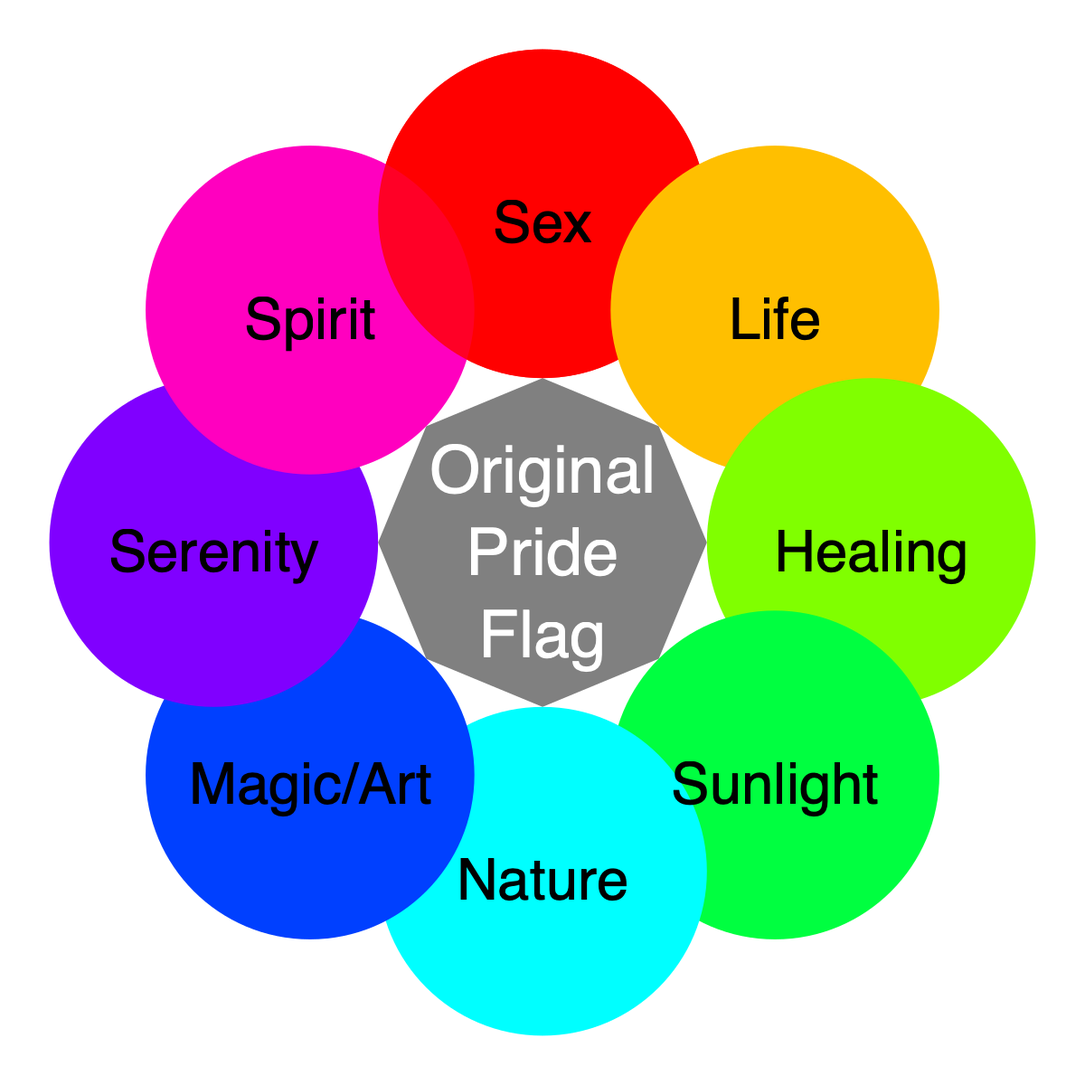
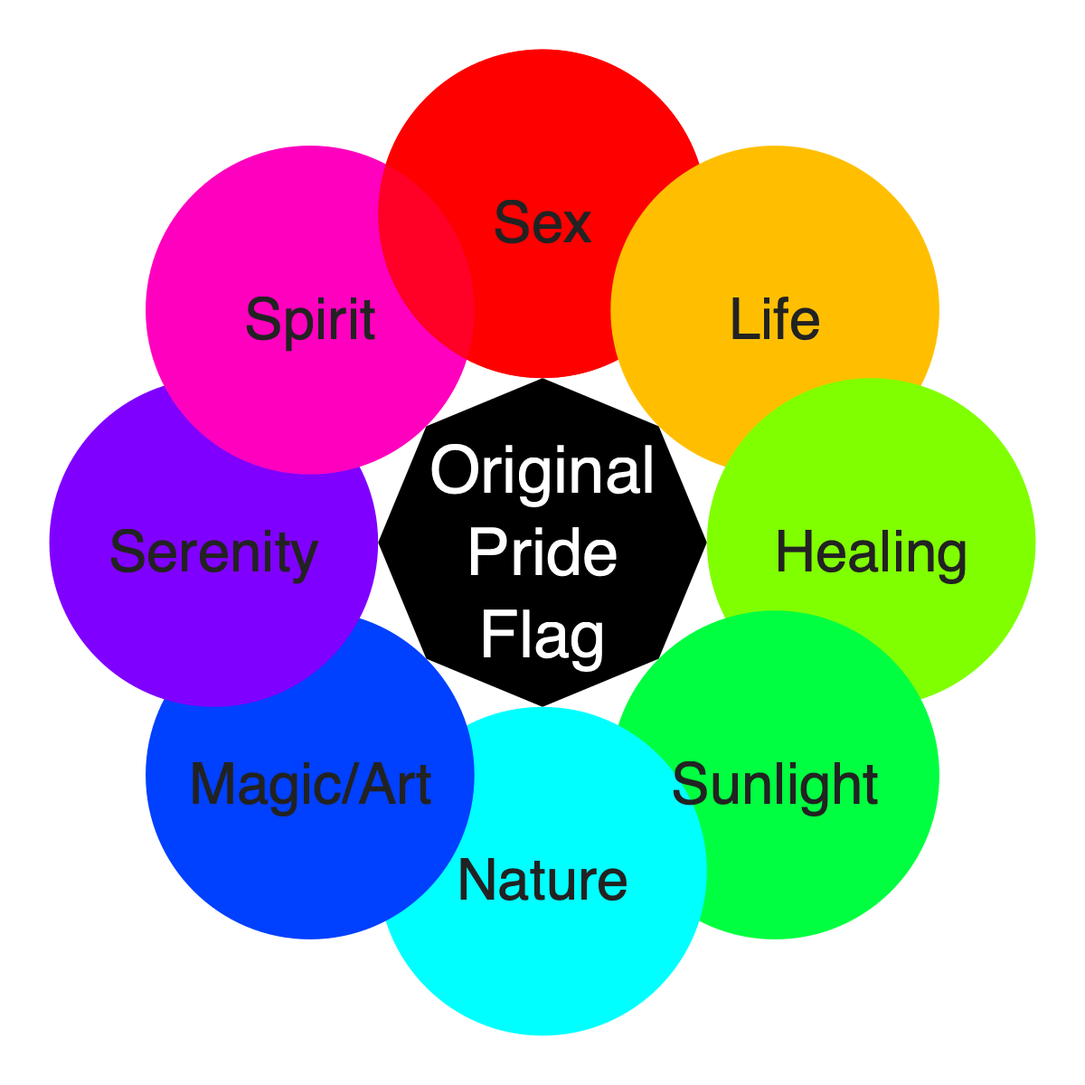
center colour fix

diff --git a/docs/flora.html b/docs/flora.html
@@ -6,16 +6,16 @@
 <meta name="viewport" content="width=device-width, initial-scale=1, shrink-to-fit=no">
 <title>4 Flora | 30-day Chart Challenge</title>
 <meta name="author" content="Lisa DeBruine">
-<meta name="description" content="library(tidyverse) # always useful library(rsvg) # to convert SVG to other formats library(glue) # for editing SVG text I'm going a little off-piste today. I was inspired by all of these stock...">
+<meta name="description" content="library(tidyverse) # always useful library(rsvg) # to convert SVG to other formats ## Warning: package 'rsvg' was built ## under R version 4.1.2 ## Linking to librsvg 2.48.4 library(glue) # for...">
 <meta name="generator" content="bookdown 0.24 with bs4_book()">
 <meta property="og:title" content="4 Flora | 30-day Chart Challenge">
 <meta property="og:type" content="book">
 <meta property="og:url" content="https://debruine.github.io/30-day-chart-challenge/flora.html">
 <meta property="og:image" content="https://debruine.github.io/30-day-chart-challenge/images/logos/logo.png">
-<meta property="og:description" content="library(tidyverse) # always useful library(rsvg) # to convert SVG to other formats library(glue) # for editing SVG text I'm going a little off-piste today. I was inspired by all of these stock...">
+<meta property="og:description" content="library(tidyverse) # always useful library(rsvg) # to convert SVG to other formats ## Warning: package 'rsvg' was built ## under R version 4.1.2 ## Linking to librsvg 2.48.4 library(glue) # for...">
 <meta name="twitter:card" content="summary">
 <meta name="twitter:title" content="4 Flora | 30-day Chart Challenge">
-<meta name="twitter:description" content="library(tidyverse) # always useful library(rsvg) # to convert SVG to other formats library(glue) # for editing SVG text I'm going a little off-piste today. I was inspired by all of these stock...">
+<meta name="twitter:description" content="library(tidyverse) # always useful library(rsvg) # to convert SVG to other formats ## Warning: package 'rsvg' was built ## under R version 4.1.2 ## Linking to librsvg 2.48.4 library(glue) # for...">
 <meta name="twitter:image" content="https://debruine.github.io/30-day-chart-challenge/images/logos/logo.png">
 <!-- JS --><script src="https://cdnjs.cloudflare.com/ajax/libs/clipboard.js/2.0.6/clipboard.min.js" integrity="sha256-inc5kl9MA1hkeYUt+EC3BhlIgyp/2jDIyBLS6k3UxPI=" crossorigin="anonymous"></script><script src="https://cdnjs.cloudflare.com/ajax/libs/fuse.js/6.4.6/fuse.js" integrity="sha512-zv6Ywkjyktsohkbp9bb45V6tEMoWhzFzXis+LrMehmJZZSys19Yxf1dopHx7WzIKxr5tK2dVcYmaCk2uqdjF4A==" crossorigin="anonymous"></script><script src="https://kit.fontawesome.com/6ecbd6c532.js" crossorigin="anonymous"></script><script src="libs/header-attrs-2.11/header-attrs.js"></script><script src="libs/jquery-3.6.0/jquery-3.6.0.min.js"></script><meta name="viewport" content="width=device-width, initial-scale=1, shrink-to-fit=no">
 <link href="libs/bootstrap-4.6.0/bootstrap.min.css" rel="stylesheet">
@@ -102,10 +102,19 @@
 </h1>
 <div class="sourceCode" id="cb40"><pre class="downlit sourceCode r">
 <code class="sourceCode R"><span class="kw"><a href="https://rdrr.io/r/base/library.html">library</a></span><span class="op">(</span><span class="va"><a href="https://tidyverse.tidyverse.org">tidyverse</a></span><span class="op">)</span> <span class="co"># always useful</span>
-<span class="kw"><a href="https://rdrr.io/r/base/library.html">library</a></span><span class="op">(</span><span class="va"><a href="https://github.com/jeroen/rsvg">rsvg</a></span><span class="op">)</span> <span class="co"># to convert SVG to other formats</span>
-<span class="kw"><a href="https://rdrr.io/r/base/library.html">library</a></span><span class="op">(</span><span class="va"><a href="https://github.com/tidyverse/glue">glue</a></span><span class="op">)</span> <span class="co"># for editing SVG text</span></code></pre></div>
+<span class="kw"><a href="https://rdrr.io/r/base/library.html">library</a></span><span class="op">(</span><span class="va"><a href="https://github.com/jeroen/rsvg">rsvg</a></span><span class="op">)</span> <span class="co"># to convert SVG to other formats</span></code></pre></div>
+<pre><code>## Warning: package 'rsvg' was built
+## under R version 4.1.2</code></pre>
+<pre><code>## Linking to librsvg 2.48.4</code></pre>
+<div class="sourceCode" id="cb43"><pre class="downlit sourceCode r">
+<code class="sourceCode R"><span class="kw"><a href="https://rdrr.io/r/base/library.html">library</a></span><span class="op">(</span><span class="va"><a href="https://github.com/tidyverse/glue">glue</a></span><span class="op">)</span> <span class="co"># for editing SVG text</span></code></pre></div>
+<pre><code>## 
+## Attaching package: 'glue'</code></pre>
+<pre><code>## The following object is masked _by_ '.GlobalEnv':
+## 
+##     backtick</code></pre>
 <p>I'm going a little off-piste today. I was inspired by all of these <a href="https://www.vectorstock.com/royalty-free-vectors/chart-flower-infographic-options-vectors">stock infographics</a>, but I wondered if I could make something similar with code. You probably can do this with ggplot and annotations, but I wanted to try something different.</p>
-<div class="sourceCode" id="cb41"><pre class="downlit sourceCode r">
+<div class="sourceCode" id="cb46"><pre class="downlit sourceCode r">
 <code class="sourceCode R"><span class="fu">knitr</span><span class="fu">::</span><span class="fu"><a href="https://rdrr.io/pkg/knitr/man/include_graphics.html">include_graphics</a></span><span class="op">(</span><span class="st">"images/flower_infographics.png"</span><span class="op">)</span></code></pre></div>
 <div class="figure" style="text-align: center">
 <span style="display:block;" id="fig:flora-examples"></span>
@@ -119,7 +128,7 @@ Figure 4.1: Flower infographics from vectorstock.com
 </h2>
 <p>I have some experience making SVGs (scalable vector graphics), but I always have to look things up. <a href="https://www.w3schools.com/graphics/svg_intro.asp">W3Schools</a> is my favourite source for quick tutorials on web stuff. I used it a ton to make this chart.</p>
 <p>While I was developing this code, I needed to have a quick look at the images a lot, and couldn't figure out an efficient way to view SVGs, so I wrote a function that converts the svg text to a PNG tempfile and displays it in my Rmd, but only when I'm running the code interactively.</p>
-<div class="sourceCode" id="cb42"><pre class="downlit sourceCode r">
+<div class="sourceCode" id="cb47"><pre class="downlit sourceCode r">
 <code class="sourceCode R"><span class="va">viewsvg</span> <span class="op">&lt;-</span> <span class="kw">function</span><span class="op">(</span><span class="va">svg</span>, <span class="va">width</span> <span class="op">=</span> <span class="fl">5</span>, <span class="va">height</span> <span class="op">=</span> <span class="fl">5</span>, <span class="va">dpi</span> <span class="op">=</span> <span class="fl">150</span><span class="op">)</span> <span class="op">{</span>
   <span class="kw">if</span> <span class="op">(</span><span class="fu"><a href="https://rdrr.io/r/base/interactive.html">interactive</a></span><span class="op">(</span><span class="op">)</span> <span class="op">&amp;&amp;</span>
       <span class="op">!</span><span class="fu"><a href="https://rdrr.io/r/base/Logic.html">isTRUE</a></span><span class="op">(</span><span class="fu"><a href="https://rdrr.io/r/base/options.html">getOption</a></span><span class="op">(</span><span class="st">"knitr.in.progress"</span><span class="op">)</span><span class="op">)</span><span class="op">)</span> <span class="op">{</span>
@@ -135,7 +144,7 @@ Figure 4.1: Flower infographics from vectorstock.com
 <p>It outputs the SVG as html when knitting. All of the images below are created with a code chunk that looks like this:</p>
 <div class="verbatim">
 <pre class="sourceCode r"><code class="sourceCode R">```{r, results='asis', echo = FALSE}</code></pre>
-<div class="sourceCode" id="cb43"><pre class="downlit sourceCode r">
+<div class="sourceCode" id="cb48"><pre class="downlit sourceCode r">
 <code class="sourceCode R"><span class="fu">viewsvg</span><span class="op">(</span><span class="va">svg</span><span class="op">)</span></code></pre></div>
 <pre class="sourceCode r"><code class="sourceCode R">```</code></pre>
 </div>
@@ -145,7 +154,7 @@ Figure 4.1: Flower infographics from vectorstock.com
 <span class="header-section-number">4.2</span> Flower Petals<a class="anchor" aria-label="anchor" href="#flower-petals"><i class="fas fa-link"></i></a>
 </h2>
 <p>First, I need a function to figure out the coordinates of regular polygons.</p>
-<div class="sourceCode" id="cb44"><pre class="downlit sourceCode r">
+<div class="sourceCode" id="cb49"><pre class="downlit sourceCode r">
 <code class="sourceCode R"><span class="va">poly_coords</span> <span class="op">&lt;-</span> <span class="kw">function</span><span class="op">(</span><span class="va">n</span> <span class="op">=</span> <span class="fl">6</span>, <span class="va">r</span> <span class="op">=</span> <span class="fl">1</span>, <span class="va">cx</span> <span class="op">=</span> <span class="fl">0</span>, <span class="va">cy</span> <span class="op">=</span> <span class="fl">0</span>, <span class="va">rot</span> <span class="op">=</span> <span class="fl">0</span>, <span class="va">digits</span> <span class="op">=</span> <span class="fl">2</span><span class="op">)</span> <span class="op">{</span>
   <span class="va">x</span> <span class="op">=</span> <span class="fu"><a href="https://rdrr.io/pkg/purrr/man/map.html">map_dbl</a></span><span class="op">(</span><span class="fl">0</span><span class="op">:</span><span class="op">(</span><span class="va">n</span><span class="op">-</span><span class="fl">1</span><span class="op">)</span>, <span class="op">~</span><span class="op">{</span> <span class="va">cx</span> <span class="op">+</span> <span class="va">r</span> <span class="op">*</span> <span class="fu"><a href="https://rdrr.io/r/base/Trig.html">cos</a></span><span class="op">(</span><span class="fl">2</span> <span class="op">*</span> <span class="va">pi</span> <span class="op">*</span> <span class="va">.x</span> <span class="op">/</span> <span class="va">n</span> <span class="op">+</span> <span class="va">rot</span><span class="op">)</span> <span class="op">}</span><span class="op">)</span>
   <span class="va">y</span> <span class="op">=</span> <span class="fu"><a href="https://rdrr.io/pkg/purrr/man/map.html">map_dbl</a></span><span class="op">(</span><span class="fl">0</span><span class="op">:</span><span class="op">(</span><span class="va">n</span><span class="op">-</span><span class="fl">1</span><span class="op">)</span>, <span class="op">~</span><span class="op">{</span> <span class="va">cy</span> <span class="op">+</span> <span class="va">r</span> <span class="op">*</span> <span class="fu"><a href="https://rdrr.io/r/base/Trig.html">sin</a></span><span class="op">(</span><span class="fl">2</span> <span class="op">*</span> <span class="va">pi</span> <span class="op">*</span> <span class="va">.x</span> <span class="op">/</span> <span class="va">n</span> <span class="op">+</span> <span class="va">rot</span><span class="op">)</span> <span class="op">}</span><span class="op">)</span>
@@ -161,9 +170,10 @@ Figure 4.1: Flower infographics from vectorstock.com
 ## [1]  1.0  0.5 -0.5 -1.0 -0.5  0.5
 ## 
 ## $y
-## [1]  0.00  0.87  0.87  0.00 -0.87 -0.87</code></pre>
+## [1]  0.00  0.87  0.87  0.00 -0.87
+## [6] -0.87</code></pre>
 <p>Now, make <code>n</code> circles with radius <code>r</code> that are <code>petal_dist</code> away from the center of the flower.</p>
-<div class="sourceCode" id="cb46"><pre class="downlit sourceCode r">
+<div class="sourceCode" id="cb51"><pre class="downlit sourceCode r">
 <code class="sourceCode R"><span class="va">n</span> <span class="op">&lt;-</span> <span class="fl">6</span>
 <span class="va">r</span> <span class="op">&lt;-</span> <span class="fl">200</span>
 <span class="va">petal_dist</span> <span class="op">&lt;-</span> <span class="fl">300</span>
@@ -186,7 +196,7 @@ Figure 4.1: Flower infographics from vectorstock.com
 <span class="header-section-number">4.3</span> Rotate<a class="anchor" aria-label="anchor" href="#rotate"><i class="fas fa-link"></i></a>
 </h2>
 <p>Rotate them so the red is at 12:00.</p>
-<div class="sourceCode" id="cb47"><pre class="downlit sourceCode r">
+<div class="sourceCode" id="cb52"><pre class="downlit sourceCode r">
 <code class="sourceCode R"><span class="va">rot</span> <span class="op">&lt;-</span> <span class="op">-</span><span class="va">pi</span><span class="op">/</span><span class="fl">2</span>
 
 <span class="va">coords</span> <span class="op">&lt;-</span> <span class="fu">poly_coords</span><span class="op">(</span><span class="va">n</span>, <span class="va">petal_dist</span>, <span class="va">cx</span>, <span class="va">cy</span>, <span class="va">rot</span><span class="op">)</span>
@@ -205,7 +215,7 @@ Figure 4.1: Flower infographics from vectorstock.com
 <span class="header-section-number">4.4</span> Fix the Overlap<a class="anchor" aria-label="anchor" href="#fix-the-overlap"><i class="fas fa-link"></i></a>
 </h2>
 <p>When they overlap, the last petal is on top of the first, so we need to replot the left half of that. It took me forever to figure out how to plot the left half of a circle with <code>&lt;path&gt;</code> :(</p>
-<div class="sourceCode" id="cb48"><pre class="downlit sourceCode r">
+<div class="sourceCode" id="cb53"><pre class="downlit sourceCode r">
 <code class="sourceCode R"><span class="va">coords</span> <span class="op">&lt;-</span> <span class="fu">poly_coords</span><span class="op">(</span><span class="va">n</span>, <span class="va">petal_dist</span>, <span class="va">cx</span>, <span class="va">cy</span>, <span class="va">rot</span><span class="op">)</span>
 <span class="va">petals</span> <span class="op">&lt;-</span> <span class="fu"><a href="https://rdrr.io/pkg/glue/man/glue.html">glue</a></span><span class="op">(</span><span class="st">'    &lt;circle cx="{coords$x}" cy="{coords$y}" r="{r}" fill="{rainbow(n)}" /&gt;'</span><span class="op">)</span> <span class="op"><a href="https://rdrr.io/pkg/magrittr/man/pipe.html">%&gt;%</a></span>
   <span class="fu"><a href="https://rdrr.io/r/base/paste.html">paste</a></span><span class="op">(</span>collapse <span class="op">=</span> <span class="st">"\n"</span><span class="op">)</span>
@@ -228,7 +238,7 @@ Figure 4.1: Flower infographics from vectorstock.com
 A 200 200 0 0 1 700 200
 L 300 200
 Z" fill="#FF0000"></path></g></svg><p>Now I want to add a center hexagon that just touches each petal.</p>
-<div class="sourceCode" id="cb49"><pre class="downlit sourceCode r">
+<div class="sourceCode" id="cb54"><pre class="downlit sourceCode r">
 <code class="sourceCode R"><span class="va">center</span> <span class="op">&lt;-</span> <span class="fu">poly_coords</span><span class="op">(</span><span class="va">n</span>, <span class="va">petal_dist</span><span class="op">-</span><span class="va">r</span>, <span class="va">cx</span>, <span class="va">cy</span>, <span class="va">rot</span><span class="op">)</span> <span class="op"><a href="https://rdrr.io/pkg/magrittr/man/pipe.html">%&gt;%</a></span>
   <span class="fu"><a href="https://rdrr.io/pkg/glue/man/glue.html">glue</a></span><span class="op">(</span><span class="st">"{cc$x},{cc$y}"</span>, cc <span class="op">=</span> <span class="va">.</span><span class="op">)</span> <span class="op"><a href="https://rdrr.io/pkg/magrittr/man/pipe.html">%&gt;%</a></span>
   <span class="fu"><a href="https://rdrr.io/r/base/paste.html">paste</a></span><span class="op">(</span>collapse <span class="op">=</span> <span class="st">" "</span><span class="op">)</span> <span class="op"><a href="https://rdrr.io/pkg/magrittr/man/pipe.html">%&gt;%</a></span>
@@ -249,7 +259,7 @@ Z" fill="#FF0000"></path></g></svg>
 <h2>
 <span class="header-section-number">4.5</span> 7 Petals<a class="anchor" aria-label="anchor" href="#petals"><i class="fas fa-link"></i></a>
 </h2>
-<div class="sourceCode" id="cb50"><pre class="downlit sourceCode r">
+<div class="sourceCode" id="cb55"><pre class="downlit sourceCode r">
 <code class="sourceCode R"><span class="va">n</span>          <span class="op">&lt;-</span> <span class="fl">7</span>
 <span class="va">rot</span>        <span class="op">&lt;-</span> <span class="fl">8.5</span><span class="op">*</span><span class="va">pi</span><span class="op">/</span><span class="fl">7</span>
 <span class="va">petal_dist</span> <span class="op">&lt;-</span> <span class="fl">400</span>
@@ -321,7 +331,7 @@ Z" fill="#FF0000"></path></g><text x="347.27" y="450.6">A</text>"
 <span class="header-section-number">4.6</span> Make a Function<a class="anchor" aria-label="anchor" href="#make-a-function"><i class="fas fa-link"></i></a>
 </h2>
 <p>Now I just need to wrap this all in a function so I can change the things I need. I also added transparency to the petals, which necessitated making the two halves of the first petal separately, otherwise the overlap fix increases the opacity of half the petal if there's any transparency.</p>
-<div class="sourceCode" id="cb51"><pre class="downlit sourceCode r">
+<div class="sourceCode" id="cb56"><pre class="downlit sourceCode r">
 <code class="sourceCode R"><span class="va">poly_coords</span> <span class="op">&lt;-</span> <span class="kw">function</span><span class="op">(</span><span class="va">n</span> <span class="op">=</span> <span class="fl">6</span>, <span class="va">r</span> <span class="op">=</span> <span class="fl">1</span>, <span class="va">cx</span> <span class="op">=</span> <span class="fl">0</span>, <span class="va">cy</span> <span class="op">=</span> <span class="fl">0</span>, <span class="va">rot</span> <span class="op">=</span> <span class="fl">0</span>, <span class="va">digits</span> <span class="op">=</span> <span class="fl">2</span><span class="op">)</span> <span class="op">{</span>
   <span class="va">x</span> <span class="op">=</span> <span class="fu"><a href="https://rdrr.io/pkg/purrr/man/map.html">map_dbl</a></span><span class="op">(</span><span class="fl">0</span><span class="op">:</span><span class="op">(</span><span class="va">n</span><span class="op">-</span><span class="fl">1</span><span class="op">)</span>, <span class="op">~</span><span class="op">{</span> <span class="va">cx</span> <span class="op">+</span> <span class="va">r</span> <span class="op">*</span> <span class="fu"><a href="https://rdrr.io/r/base/Trig.html">cos</a></span><span class="op">(</span><span class="fl">2</span> <span class="op">*</span> <span class="va">pi</span> <span class="op">*</span> <span class="va">.x</span> <span class="op">/</span> <span class="va">n</span> <span class="op">+</span> <span class="va">rot</span><span class="op">)</span> <span class="op">}</span><span class="op">)</span>
   <span class="va">y</span> <span class="op">=</span> <span class="fu"><a href="https://rdrr.io/pkg/purrr/man/map.html">map_dbl</a></span><span class="op">(</span><span class="fl">0</span><span class="op">:</span><span class="op">(</span><span class="va">n</span><span class="op">-</span><span class="fl">1</span><span class="op">)</span>, <span class="op">~</span><span class="op">{</span> <span class="va">cy</span> <span class="op">+</span> <span class="va">r</span> <span class="op">*</span> <span class="fu"><a href="https://rdrr.io/r/base/Trig.html">sin</a></span><span class="op">(</span><span class="fl">2</span> <span class="op">*</span> <span class="va">pi</span> <span class="op">*</span> <span class="va">.x</span> <span class="op">/</span> <span class="va">n</span> <span class="op">+</span> <span class="va">rot</span><span class="op">)</span> <span class="op">}</span><span class="op">)</span>
@@ -352,7 +362,7 @@ Z" fill="#FF0000"></path></g><text x="347.27" y="450.6">A</text>"
   <span class="va">center</span> <span class="op">&lt;-</span> <span class="fu">poly_coords</span><span class="op">(</span><span class="va">n</span>, <span class="va">petal_dist</span><span class="op">-</span><span class="va">r</span>, <span class="va">cx</span>, <span class="va">cy</span>, <span class="va">rot</span><span class="op">)</span> <span class="op"><a href="https://rdrr.io/pkg/magrittr/man/pipe.html">%&gt;%</a></span>
     <span class="fu"><a href="https://rdrr.io/pkg/glue/man/glue.html">glue</a></span><span class="op">(</span><span class="st">"{cc$x},{cc$y}"</span>, cc <span class="op">=</span> <span class="va">.</span><span class="op">)</span> <span class="op"><a href="https://rdrr.io/pkg/magrittr/man/pipe.html">%&gt;%</a></span>
     <span class="fu"><a href="https://rdrr.io/r/base/paste.html">paste</a></span><span class="op">(</span>collapse <span class="op">=</span> <span class="st">" "</span><span class="op">)</span> <span class="op"><a href="https://rdrr.io/pkg/magrittr/man/pipe.html">%&gt;%</a></span>
-    <span class="fu"><a href="https://rdrr.io/pkg/glue/man/glue.html">glue</a></span><span class="op">(</span><span class="st">'&lt;polygon points="{pts}" fill="grey" /&gt;'</span>, pts <span class="op">=</span> <span class="va">.</span><span class="op">)</span>
+    <span class="fu"><a href="https://rdrr.io/pkg/glue/man/glue.html">glue</a></span><span class="op">(</span><span class="st">'&lt;polygon points="{pts}" fill="{center_color}" /&gt;'</span>, pts <span class="op">=</span> <span class="va">.</span><span class="op">)</span>
   
   <span class="co"># make center texts</span>
   <span class="va">center_texts</span> <span class="op">&lt;-</span> <span class="fu"><a href="https://rdrr.io/pkg/glue/man/glue.html">glue</a></span><span class="op">(</span><span class="st">'    &lt;text x="{cx}" y="{cy+center_text_offsets}" fill="{center_text_color}" font-size="{center_text_size}px"&gt;{center_text}&lt;/text&gt;'</span><span class="op">)</span> <span class="op"><a href="https://rdrr.io/pkg/magrittr/man/pipe.html">%&gt;%</a></span>
@@ -405,7 +415,7 @@ Z" fill="#FF0000"></path></g><text x="347.27" y="450.6">A</text>"
   <span class="va">svg</span>
 <span class="op">}</span></code></pre></div>
 <p>Test the defaults.</p>
-<div class="sourceCode" id="cb52"><pre class="downlit sourceCode r">
+<div class="sourceCode" id="cb57"><pre class="downlit sourceCode r">
 <code class="sourceCode R"><span class="va">svg</span> <span class="op">&lt;-</span> <span class="fu">flower</span><span class="op">(</span><span class="op">)</span></code></pre></div>
 <svg viewbox="0 0 1650 1650"><style type="text/css">
   svg { 
@@ -415,7 +425,7 @@ Z" fill="#FF0000"></path></g><text x="347.27" y="450.6">A</text>"
     fill: white;
   }
 </style>
-<polygon points="825,575 1041.51,700 1041.51,950 825,1075 608.49,950 608.49,700" fill="grey"></polygon><text x="825" y="808.333333333333" fill="white" font-size="83.3333333333333px">All of the</text><text x="825" y="900" fill="white" font-size="83.3333333333333px">Things</text><g transform="rotate(90, 825, 325)"><path d="M 575 325
+<polygon points="825,575 1041.51,700 1041.51,950 825,1075 608.49,950 608.49,700" fill="#808080"></polygon><text x="825" y="808.333333333333" fill="white" font-size="83.3333333333333px">All of the</text><text x="825" y="900" fill="white" font-size="83.3333333333333px">Things</text><g transform="rotate(90, 825, 325)"><path d="M 575 325
 A 250 250 0 0 1 1075 325
 L 575 325
 Z" fill="#FF0000" fill-opacity="1"></path></g><circle cx="825" cy="325" r="250" fill="#FF0000"></circle><circle cx="1258.01" cy="575" r="250" fill="#FFFF00"></circle><circle cx="1258.01" cy="1075" r="250" fill="#00FF00"></circle><circle cx="825" cy="1325" r="250" fill="#00FFFF"></circle><circle cx="391.99" cy="1075" r="250" fill="#0000FF"></circle><circle cx="391.99" cy="575" r="250" fill="#FF00FF"></circle><g transform="rotate(-90, 825, 325)"><path d="M 575 325
@@ -434,7 +444,7 @@ Z" fill="#FF0000" fill-opacity="1"></path></g><text x="825" y="387.5">A</text>"
 <span class="header-section-number">4.7</span> Original Pride Flag<a class="anchor" aria-label="anchor" href="#original-pride-flag"><i class="fas fa-link"></i></a>
 </h2>
 <p>Test the customisability by making a chart with the meaning of the 8 colours of the original pride flag.</p>
-<div class="sourceCode" id="cb53"><pre class="downlit sourceCode r">
+<div class="sourceCode" id="cb58"><pre class="downlit sourceCode r">
 <code class="sourceCode R"><span class="va">svg</span> <span class="op">&lt;-</span> <span class="fu">flower</span><span class="op">(</span>n <span class="op">=</span> <span class="fl">8</span>, petal_dist <span class="op">=</span> <span class="fl">400</span>, r <span class="op">=</span> <span class="fl">200</span>,
               petal_colors <span class="op">=</span> <span class="fu"><a href="https://rdrr.io/r/base/c.html">c</a></span><span class="op">(</span><span class="st">"#FF66B1"</span>, <span class="st">"#FF0000"</span>, <span class="st">"#FF8F1A"</span>, <span class="st">"#FEFF3A"</span>,
                                <span class="st">"#008F1D"</span>, <span class="st">"#00C0C0"</span>, <span class="st">"#420095"</span>, <span class="st">"#8F008B"</span><span class="op">)</span>,
@@ -444,7 +454,7 @@ Z" fill="#FF0000" fill-opacity="1"></path></g><text x="825" y="387.5">A</text>"
               center_text <span class="op">=</span> <span class="fu"><a href="https://rdrr.io/r/base/c.html">c</a></span><span class="op">(</span><span class="st">"Original"</span>, <span class="st">"Pride"</span>, <span class="st">"Flag"</span><span class="op">)</span>,
               center_text_size <span class="op">=</span> <span class="fl">80</span>,
               center_text_offsets <span class="op">=</span> <span class="fu"><a href="https://rdrr.io/r/base/c.html">c</a></span><span class="op">(</span><span class="op">-</span><span class="fl">60</span>, <span class="fl">40</span>, <span class="fl">140</span><span class="op">)</span>,
-              petal_text_color <span class="op">=</span> <span class="st">"black"</span>,
+              petal_text_color <span class="op">=</span> <span class="st">"#222222"</span>,
               petal_text_size <span class="op">=</span> <span class="fl">70</span>,
               center_color <span class="op">=</span> <span class="st">"black"</span>,
               center_text_color <span class="op">=</span> <span class="st">"white"</span>
@@ -454,10 +464,10 @@ Z" fill="#FF0000" fill-opacity="1"></path></g><text x="825" y="387.5">A</text>"
     font-family: sans-serif;
     font-size: 70px; 
     text-anchor: middle; 
-    fill: black;
+    fill: #222222;
   }
 </style>
-<polygon points="660,460 801.42,518.58 860,660 801.42,801.42 660,860 518.58,801.42 460,660 518.58,518.58" fill="grey"></polygon><text x="660" y="600" fill="white" font-size="80px">Original</text><text x="660" y="700" fill="white" font-size="80px">Pride</text><text x="660" y="800" fill="white" font-size="80px">Flag</text><g transform="rotate(90, 660, 260)"><path d="M 460 260
+<polygon points="660,460 801.42,518.58 860,660 801.42,801.42 660,860 518.58,801.42 460,660 518.58,518.58" fill="black"></polygon><text x="660" y="600" fill="white" font-size="80px">Original</text><text x="660" y="700" fill="white" font-size="80px">Pride</text><text x="660" y="800" fill="white" font-size="80px">Flag</text><g transform="rotate(90, 660, 260)"><path d="M 460 260
 A 200 200 0 0 1 860 260
 L 460 260
 Z" fill="#FF0000" fill-opacity="0.8"></path></g><circle cx="660" cy="260" r="200" fill="#FF0000"></circle><circle cx="942.84" cy="377.16" r="200" fill="#FFBF00"></circle><circle cx="1060" cy="660" r="200" fill="#80FF00"></circle><circle cx="942.84" cy="942.84" r="200" fill="#00FF40"></circle><circle cx="660" cy="1060" r="200" fill="#00FFFF"></circle><circle cx="377.16" cy="942.84" r="200" fill="#0040FF"></circle><circle cx="260" cy="660" r="200" fill="#8000FF"></circle><circle cx="377.16" cy="377.16" r="200" fill="#FF00BF"></circle><g transform="rotate(-90, 660, 260)"><path d="M 460 260
@@ -478,17 +488,17 @@ Z" fill="#FF0000" fill-opacity="0.8"></path></g><text x="660" y="295">Sex</text>
 <span class="header-section-number">4.8</span> Save as SVG or PNG<a class="anchor" aria-label="anchor" href="#save-as-svg-or-png"><i class="fas fa-link"></i></a>
 </h2>
 <p>You can display your SVG directly in a website by setting <code>results='asis'</code> in the code chunk header. It will display it full size unless you use another method to constrain the image size. I set a css style of <code>svg { width: 100%; }</code>.</p>
-<div class="sourceCode" id="cb54"><pre class="downlit sourceCode r">
+<div class="sourceCode" id="cb59"><pre class="downlit sourceCode r">
 <code class="sourceCode R"><span class="fu"><a href="https://rdrr.io/r/base/cat.html">cat</a></span><span class="op">(</span><span class="va">svg</span><span class="op">)</span></code></pre></div>
 <svg viewbox="0 0 1320 1320"><style type="text/css">
   svg { 
     font-family: sans-serif;
     font-size: 70px; 
     text-anchor: middle; 
-    fill: black;
+    fill: #222222;
   }
 </style>
-<polygon points="660,460 801.42,518.58 860,660 801.42,801.42 660,860 518.58,801.42 460,660 518.58,518.58" fill="grey"></polygon><text x="660" y="600" fill="white" font-size="80px">Original</text><text x="660" y="700" fill="white" font-size="80px">Pride</text><text x="660" y="800" fill="white" font-size="80px">Flag</text><g transform="rotate(90, 660, 260)"><path d="M 460 260
+<polygon points="660,460 801.42,518.58 860,660 801.42,801.42 660,860 518.58,801.42 460,660 518.58,518.58" fill="black"></polygon><text x="660" y="600" fill="white" font-size="80px">Original</text><text x="660" y="700" fill="white" font-size="80px">Pride</text><text x="660" y="800" fill="white" font-size="80px">Flag</text><g transform="rotate(90, 660, 260)"><path d="M 460 260
 A 200 200 0 0 1 860 260
 L 460 260
 Z" fill="#FF0000" fill-opacity="0.8"></path></g><circle cx="660" cy="260" r="200" fill="#FF0000"></circle><circle cx="942.84" cy="377.16" r="200" fill="#FFBF00"></circle><circle cx="1060" cy="660" r="200" fill="#80FF00"></circle><circle cx="942.84" cy="942.84" r="200" fill="#00FF40"></circle><circle cx="660" cy="1060" r="200" fill="#00FFFF"></circle><circle cx="377.16" cy="942.84" r="200" fill="#0040FF"></circle><circle cx="260" cy="660" r="200" fill="#8000FF"></circle><circle cx="377.16" cy="377.16" r="200" fill="#FF00BF"></circle><g transform="rotate(-90, 660, 260)"><path d="M 460 260
@@ -503,7 +513,7 @@ Z" fill="#FF0000" fill-opacity="0.8"></path></g><text x="660" y="295">Sex</text>
 <text x="260" y="695">Serenity</text>"
 <text x="377.16" y="412.16">Spirit</text>"
 </svg><p>You can write it to an svg file, or use svgr to convert to an image.</p>
-<div class="sourceCode" id="cb55"><pre class="downlit sourceCode r">
+<div class="sourceCode" id="cb60"><pre class="downlit sourceCode r">
 <code class="sourceCode R"><span class="fu"><a href="https://rdrr.io/r/base/write.html">write</a></span><span class="op">(</span><span class="va">svg</span>, <span class="st">"images/day4.svg"</span><span class="op">)</span>
 <span class="fu">rsvg</span><span class="fu">::</span><span class="fu"><a href="https://rdrr.io/pkg/rsvg/man/rsvg.html">rsvg_png</a></span><span class="op">(</span>svg <span class="op">=</span> <span class="fu"><a href="https://rdrr.io/r/base/rawConversion.html">charToRaw</a></span><span class="op">(</span><span class="va">svg</span><span class="op">)</span>, 
                file <span class="op">=</span> <span class="st">"images/day4.png"</span>, 

diff --git a/docs/historical.html b/docs/historical.html
@@ -323,10 +323,11 @@ pop2 <- pop %>%
 <p>The data collection isn't even at all. The years go every 1000 from -10000 to 0, then every 100 from 0 to 1700, then every 10 from 1700 to 1800, then every year from 1800 to 2021.</p>
 <div class="sourceCode" id="cb29"><pre class="downlit sourceCode r">
 <code class="sourceCode R"><span class="fu"><a href="https://rdrr.io/r/base/unique.html">unique</a></span><span class="op">(</span><span class="va">world_regions</span><span class="op">$</span><span class="va">year</span><span class="op">)</span> <span class="op"><a href="https://rdrr.io/pkg/magrittr/man/pipe.html">%&gt;%</a></span> <span class="fu"><a href="https://rdrr.io/r/base/sort.html">sort</a></span><span class="op">(</span><span class="op">)</span> <span class="op"><a href="https://rdrr.io/pkg/magrittr/man/pipe.html">%&gt;%</a></span> <span class="fu">`[`</span><span class="op">(</span><span class="fl">1</span><span class="op">:</span><span class="fl">50</span><span class="op">)</span></code></pre></div>
-<pre><code>##  [1] -10000  -9000  -8000  -7000  -6000  -5000  -4000  -3000  -2000  -1000      0    100    200
-## [14]    300    400    500    600    700    800    900   1000   1100   1200   1300   1400   1500
-## [27]   1600   1700   1710   1720   1730   1740   1750   1760   1770   1780   1790   1800   1801
-## [40]   1802   1803   1804   1805   1806   1807   1808   1809   1810   1811   1812</code></pre>
+<pre><code>##  [1] -10000  -9000  -8000  -7000  -6000  -5000  -4000  -3000  -2000  -1000
+## [11]      0    100    200    300    400    500    600    700    800    900
+## [21]   1000   1100   1200   1300   1400   1500   1600   1700   1710   1720
+## [31]   1730   1740   1750   1760   1770   1780   1790   1800   1801   1802
+## [41]   1803   1804   1805   1806   1807   1808   1809   1810   1811   1812</code></pre>
 <p>I tried a few x-axis transformations, and they're not straightforward because the x-axis crosses 0, which most transformations can't handle. This was one of the silliest.</p>
 <div class="sourceCode" id="cb31"><pre class="downlit sourceCode r">
 <code class="sourceCode R"><span class="fu"><a href="https://rdrr.io/pkg/ggplot2/man/ggplot.html">ggplot</a></span><span class="op">(</span><span class="va">world_regions</span>, <span class="fu"><a href="https://rdrr.io/pkg/ggplot2/man/aes.html">aes</a></span><span class="op">(</span>x <span class="op">=</span> <span class="va">year</span>, y <span class="op">=</span> <span class="va">population</span>, color <span class="op">=</span> <span class="va">region</span><span class="op">)</span><span class="op">)</span> <span class="op">+</span>
